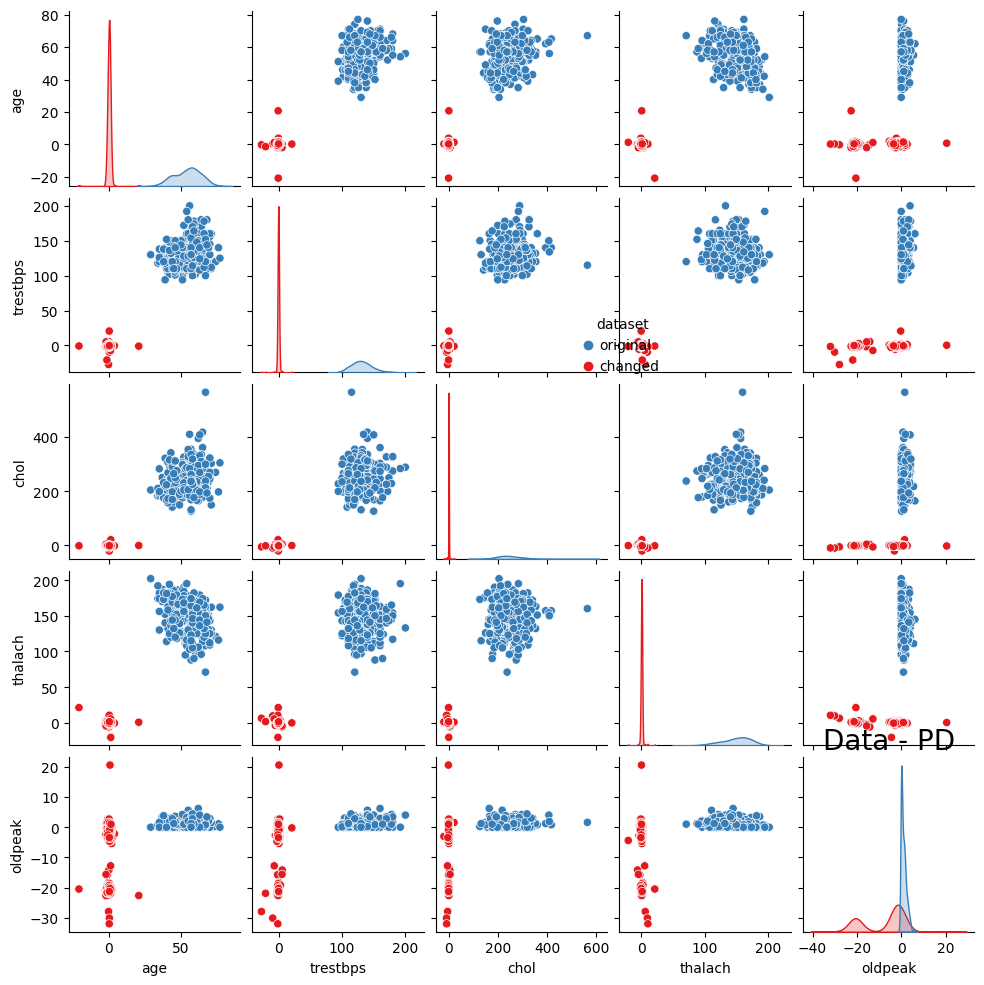
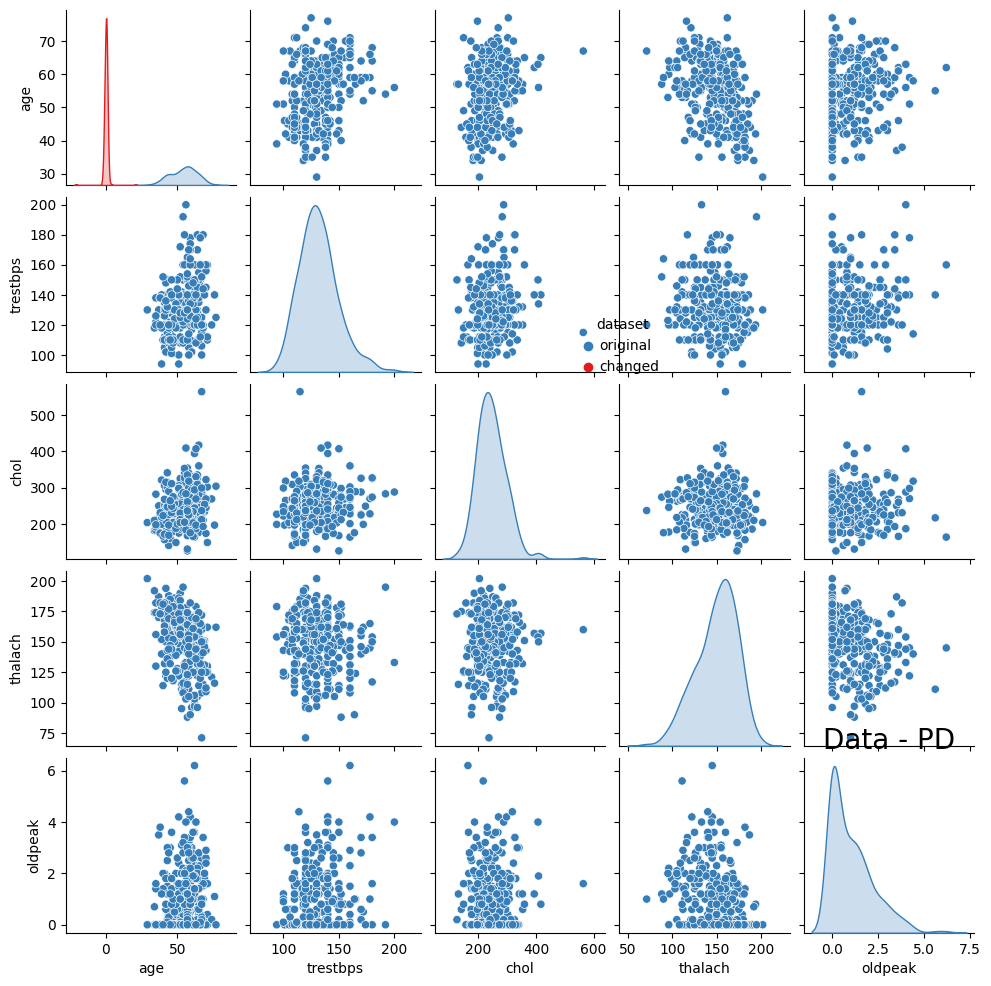
update

Changed region(s): [[0.0, 0.0, 1.0, 1.0], [0.0, 0.7919, 0.122, 0.9746], [0.3963, 0.9442, 0.4268, 0.9746]]

diff --git a/code/explainer.py b/code/explainer.py
@@ -14,15 +14,18 @@ class Explainer:
         self.constrain = constrain
         if constrain:
             self.normalizator = [
-                lambda x, c=c: (x - data_copy[c].min())
-                / (data_copy[c].max() - data_copy[c].min())
-                for c in data_copy.columns
+                lambda x, c=c: (x - self.original_data[c].min())
+                / (self.original_data[c].max() - self.original_data[c].min())
+                for c in self.original_data.columns
             ]
+            # print(self.normalizator[0](29))
+            # assert False
 
             self.unnormalizator = [
-                lambda x, c=c: x * (data_copy[c].max() - data_copy[c].min())
-                + data_copy[c].min()
-                for c in data_copy.columns
+                lambda x, c=c: x
+                * (self.original_data[c].max() - self.original_data[c].min())
+                + self.original_data[c].min()
+                for c in self.original_data.columns
             ]
 
             for i, column in enumerate(data_copy.columns):
@@ -84,7 +87,7 @@ class Explainer:
                     )
 
         try:
-            pred = self.predict(data_copy.values)
+            pred = self.predict_normalized(data_copy.values)
         except:
             raise ValueError("`predict_function(model, data)` returns an error.")
         if not isinstance(pred, np.ndarray):
@@ -100,14 +103,15 @@ class Explainer:
                 + ", and it must return a (1d) numpy.ndarray."
             )
 
-    def predict(self, data):
-        if self.constrain:
-            data_copy = deepcopy(data)
-            for i in range(data_copy.shape[1]):
-                data_copy[:, i] = sigmoid(data_copy[:, i])
-                data_copy[:, i] = self.unnormalizator[i](data_copy[:, i])
-            return self.predict_function(self.model, data_copy)
+    def predict_unnormalized(self, data):
         return self.predict_function(self.model, data)
+
+    def predict_normalized(self, data):
+        data_copy = deepcopy(data)
+        for i in range(data_copy.shape[1]):
+            data_copy[:, i] = sigmoid(data_copy[:, i])
+            data_copy[:, i] = self.unnormalizator[i](data_copy[:, i])
+        return self.predict_function(self.model, data_copy)
 
     # ************* pd *************** #
 
@@ -131,33 +135,9 @@ class Explainer:
         # merge X and grid in long format
         X_long[:, [idv]] = grid_long
         # calculate ceteris paribus
-        y_long = self.predict(X_long)
+        y_long = self.predict_normalized(X_long)
         # calculate partial dependence
         y = y_long.reshape(X.shape[0], grid_points).mean(axis=0)
-
-        return y
-
-    def pd_pop(self, X_pop, idv, grid):
-        """
-        vectorized (whole population) pd calculation for 1 variable
-        """
-        grid_points = len(grid)
-        # take grid_points of each observation in X
-        X_pop_long = np.repeat(X_pop, grid_points, axis=1)
-        # take grid for each observation
-        grid_pop_long = np.tile(
-            grid.reshape((-1, 1)), (X_pop.shape[0], X_pop.shape[1], 1)
-        )
-        # merge X and grid in long format
-        X_pop_long[:, :, [idv]] = grid_pop_long
-        # calculate ceteris paribus
-        y_pop_long = self.predict(
-            X_pop_long.reshape(
-                X_pop_long.shape[0] * X_pop_long.shape[1], X_pop_long.shape[2]
-            )
-        ).reshape((X_pop_long.shape[0], X_pop.shape[1], grid_points))
-        # calculate partial dependence
-        y = y_pop_long.mean(axis=1)
 
         return y
 
@@ -183,12 +163,12 @@ class Explainer:
         bins = grid_copy
 
         X_copy_2 = deepcopy(X_copy)
-
+        
         b = np.digitize(X[:, idv_copy], bins, right=True)
 
         X_copy[:, idv_copy] = grid_copy[b - 1]
         X_copy_2[:, idv_copy] = grid_copy[b]
-        diff = self.predict(X_copy_2) - self.predict(X_copy)
+        diff = self.predict_normalized(X_copy_2) - self.predict_normalized(X_copy)
 
         local_effects = np.nan_to_num(
             np.bincount(b - 1, weights=diff, minlength=20)
@@ -200,6 +180,9 @@ class Explainer:
         z = deepcopy(y)
         z = np.append(z, [z[-1]]) - c
 
+        # print("X", X_copy[:,3:])
+        # print("b", b)
+        # print("bins", bins)
         return z
 
 

diff --git a/code/algorithm.py b/code/algorithm.py
@@ -3,6 +3,8 @@ import numpy as np
 import pandas as pd
 import seaborn as sns
 import matplotlib.pyplot as plt
+from code.explainer import logit
+import tensorflow as tf
 
 
 class Algorithm:
@@ -52,17 +54,18 @@ class Algorithm:
 
         if grid is None:
             for result_explanation in self.result_explanations.values():
-                result_explanation["grid"] = np.linspace(
-                    self._X[:, self._idv].min(),
-                    self._X[:, self._idv].max(),
+                _grid = np.linspace(
+                    self._X_original[:, self._idv].min(),
+                    self._X_original[:, self._idv].max(),
                     self._n_grid_points,
                 )
-                # if self.explainer.constrain:
-                #     result_explanation["grid_original"] = np.linspace(
-                #                         self._X_original[:, self._idv].min(),
-                #                         self._X_original[:, self._idv].max(),
-                #                         self._n_grid_points,
-                #     )
+                _grid = self.explainer.normalizator[self._idv](_grid)
+
+                _grid[-1] = 1.0 - 1e-9
+                _grid[0] = 1e-9
+
+                _grid = np.array(logit(_grid))
+                result_explanation["grid"] = _grid
         else:
             NotImplementedError()
             if not isinstance(grid, np.ndarray):
@@ -273,6 +276,11 @@ class Algorithm:
             _colors = sns.color_palette("Set1").as_hex()[0:2][::-1]
             if i == 0:
                 _df = self.result_data[explanation_name]
+                _df_changed = _df.loc[_df["dataset"] == "changed"]
+                for i, c in enumerate(_df_changed.columns[:-1]):
+                    _df_changed[c] = tf.math.sigmoid(_df_changed[c]).numpy()
+                    _df_changed[c] = self.explainer.unnormalizator[i](_df_changed[c])
+                    _df.loc[_df["dataset"] == "changed", c] = _df_changed[c]
             else:
                 _data_changed = pd.DataFrame(
                     self.get_best_data(i), columns=self.explainer.data.columns

diff --git a/heart-gradient.py b/heart-gradient.py
@@ -28,6 +28,7 @@ VARIABLES = {
 }
 CONSTANT = ["sex", "cp", "fbs", "restecg", "exang", "slope", "ca", "thal"]
 
+
 def arguments() -> Namespace:
     parser = ArgumentParser(description="main")
     parser.add_argument("--variable", default="age", type=str, help="variable")
@@ -74,7 +75,11 @@ if __name__ == "__main__":
     explainer = code.Explainer(model, X, constrain=args.constrain)
 
     alg = code.GradientAlgorithm(
-        explainer, variable=args.variable, constant=CONSTANT, learning_rate=args.lr
+        explainer,
+        variable=args.variable,
+        constant=CONSTANT,
+        learning_rate=args.lr,
+        explanation_names=["ale"],
     )
 
     if args.strategy == "target":
@@ -89,6 +94,10 @@ if __name__ == "__main__":
 
     alg.plot_losses(savefig=f"{BASE_DIR}/loss")
     alg.plot_explanation(savefig=f"{BASE_DIR}/expl")
-    alg.plot_other_explanation(savefig=f"{BASE_DIR}/expl")
+    # alg.plot_other_explanation(savefig=f"{BASE_DIR}/expl")
     alg.plot_data(constant=False, savefig=BASE_DIR)
-    alg.get_metrics(f"{BASE_DIR}/metrics.txt")
+    # alg.get_metrics(f"{BASE_DIR}/metrics.txt")
+    print(alg._X_changed)
+    _df = alg.result_data["ale"]
+    print(_df[303:])
+    print(_df)

diff --git a/code/gradient.py b/code/gradient.py
@@ -101,7 +101,14 @@ class GradientAlgorithm(algorithm.Algorithm):
                     result_explanation, d_output_input_long
                 )
                 step = self.params["optimizer"].calculate_step(d_loss)
+                print(self._X_changed[:2])
                 self._X_changed -= self.params["learning_rate"] * step
+                print(self._X_changed[:2])
+                print("loss sum", tf.math.reduce_sum(d_loss))
+                print(d_loss.shape, d_loss)
+                # print(d_output_input_long)
+                # print(tf.math.reduce_sum(d_output_input_long))
+                assert False
 
                 if j > 0:
                     self.append_losses(explanation_name)
